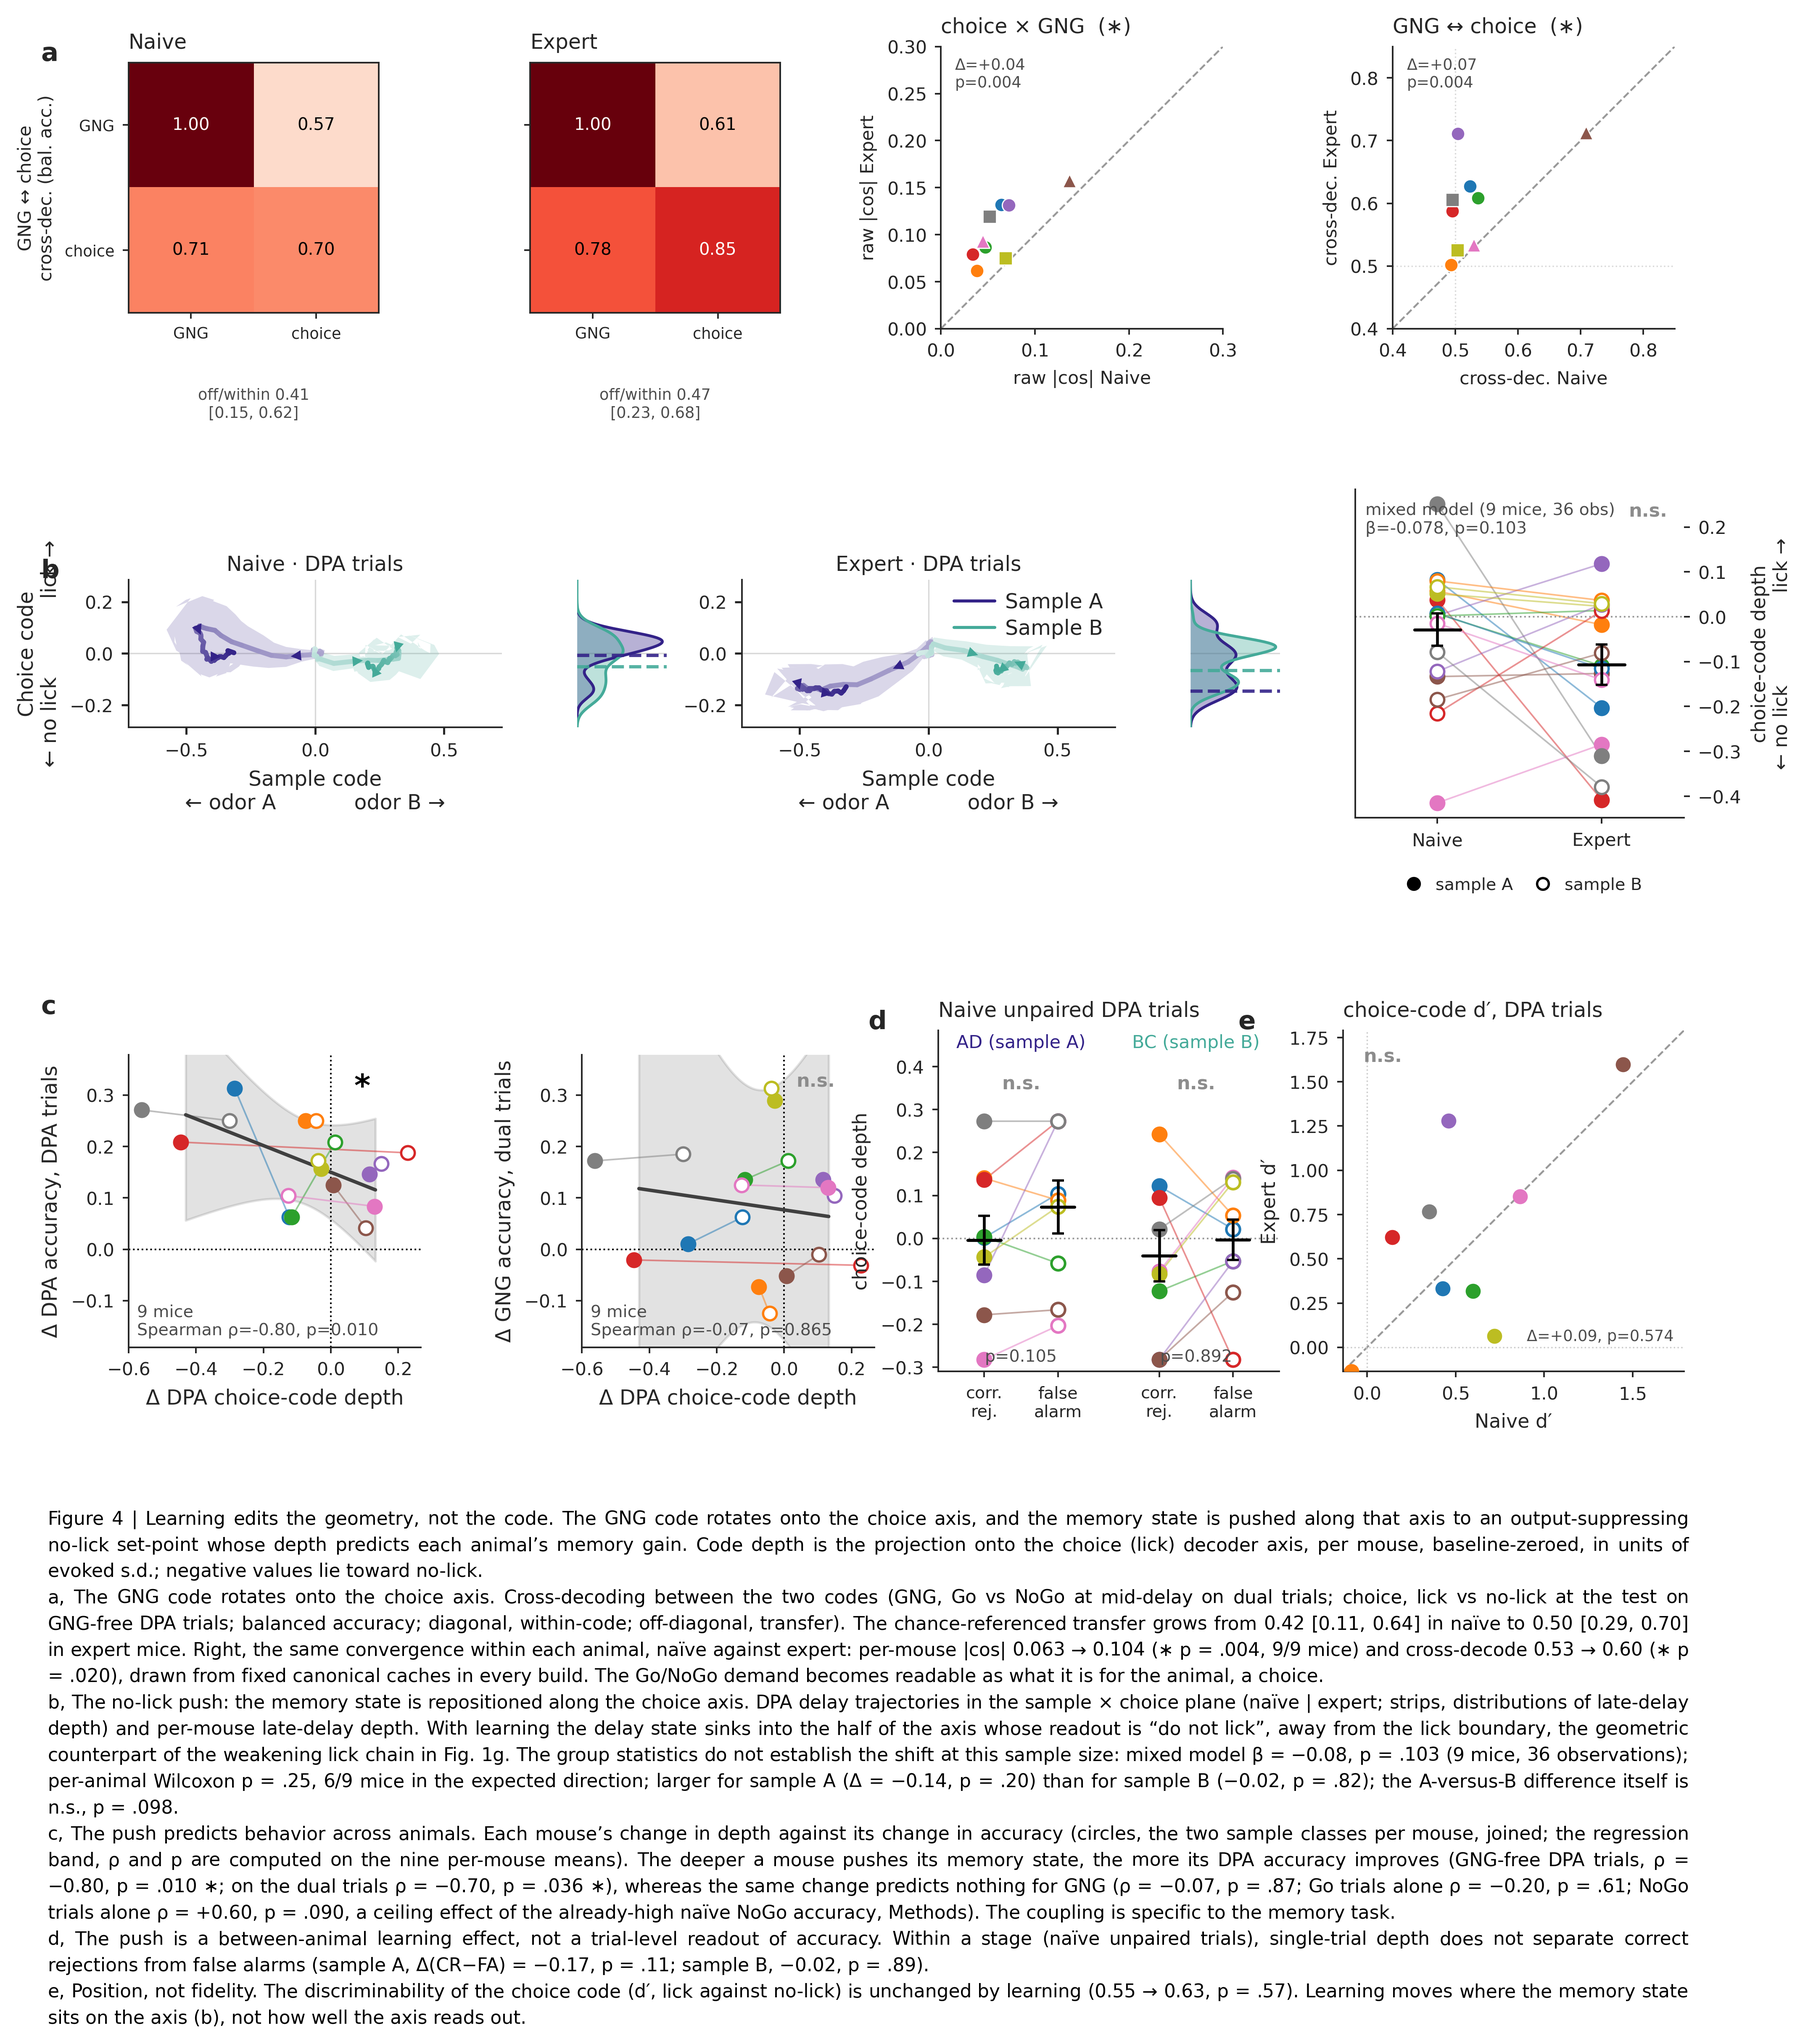
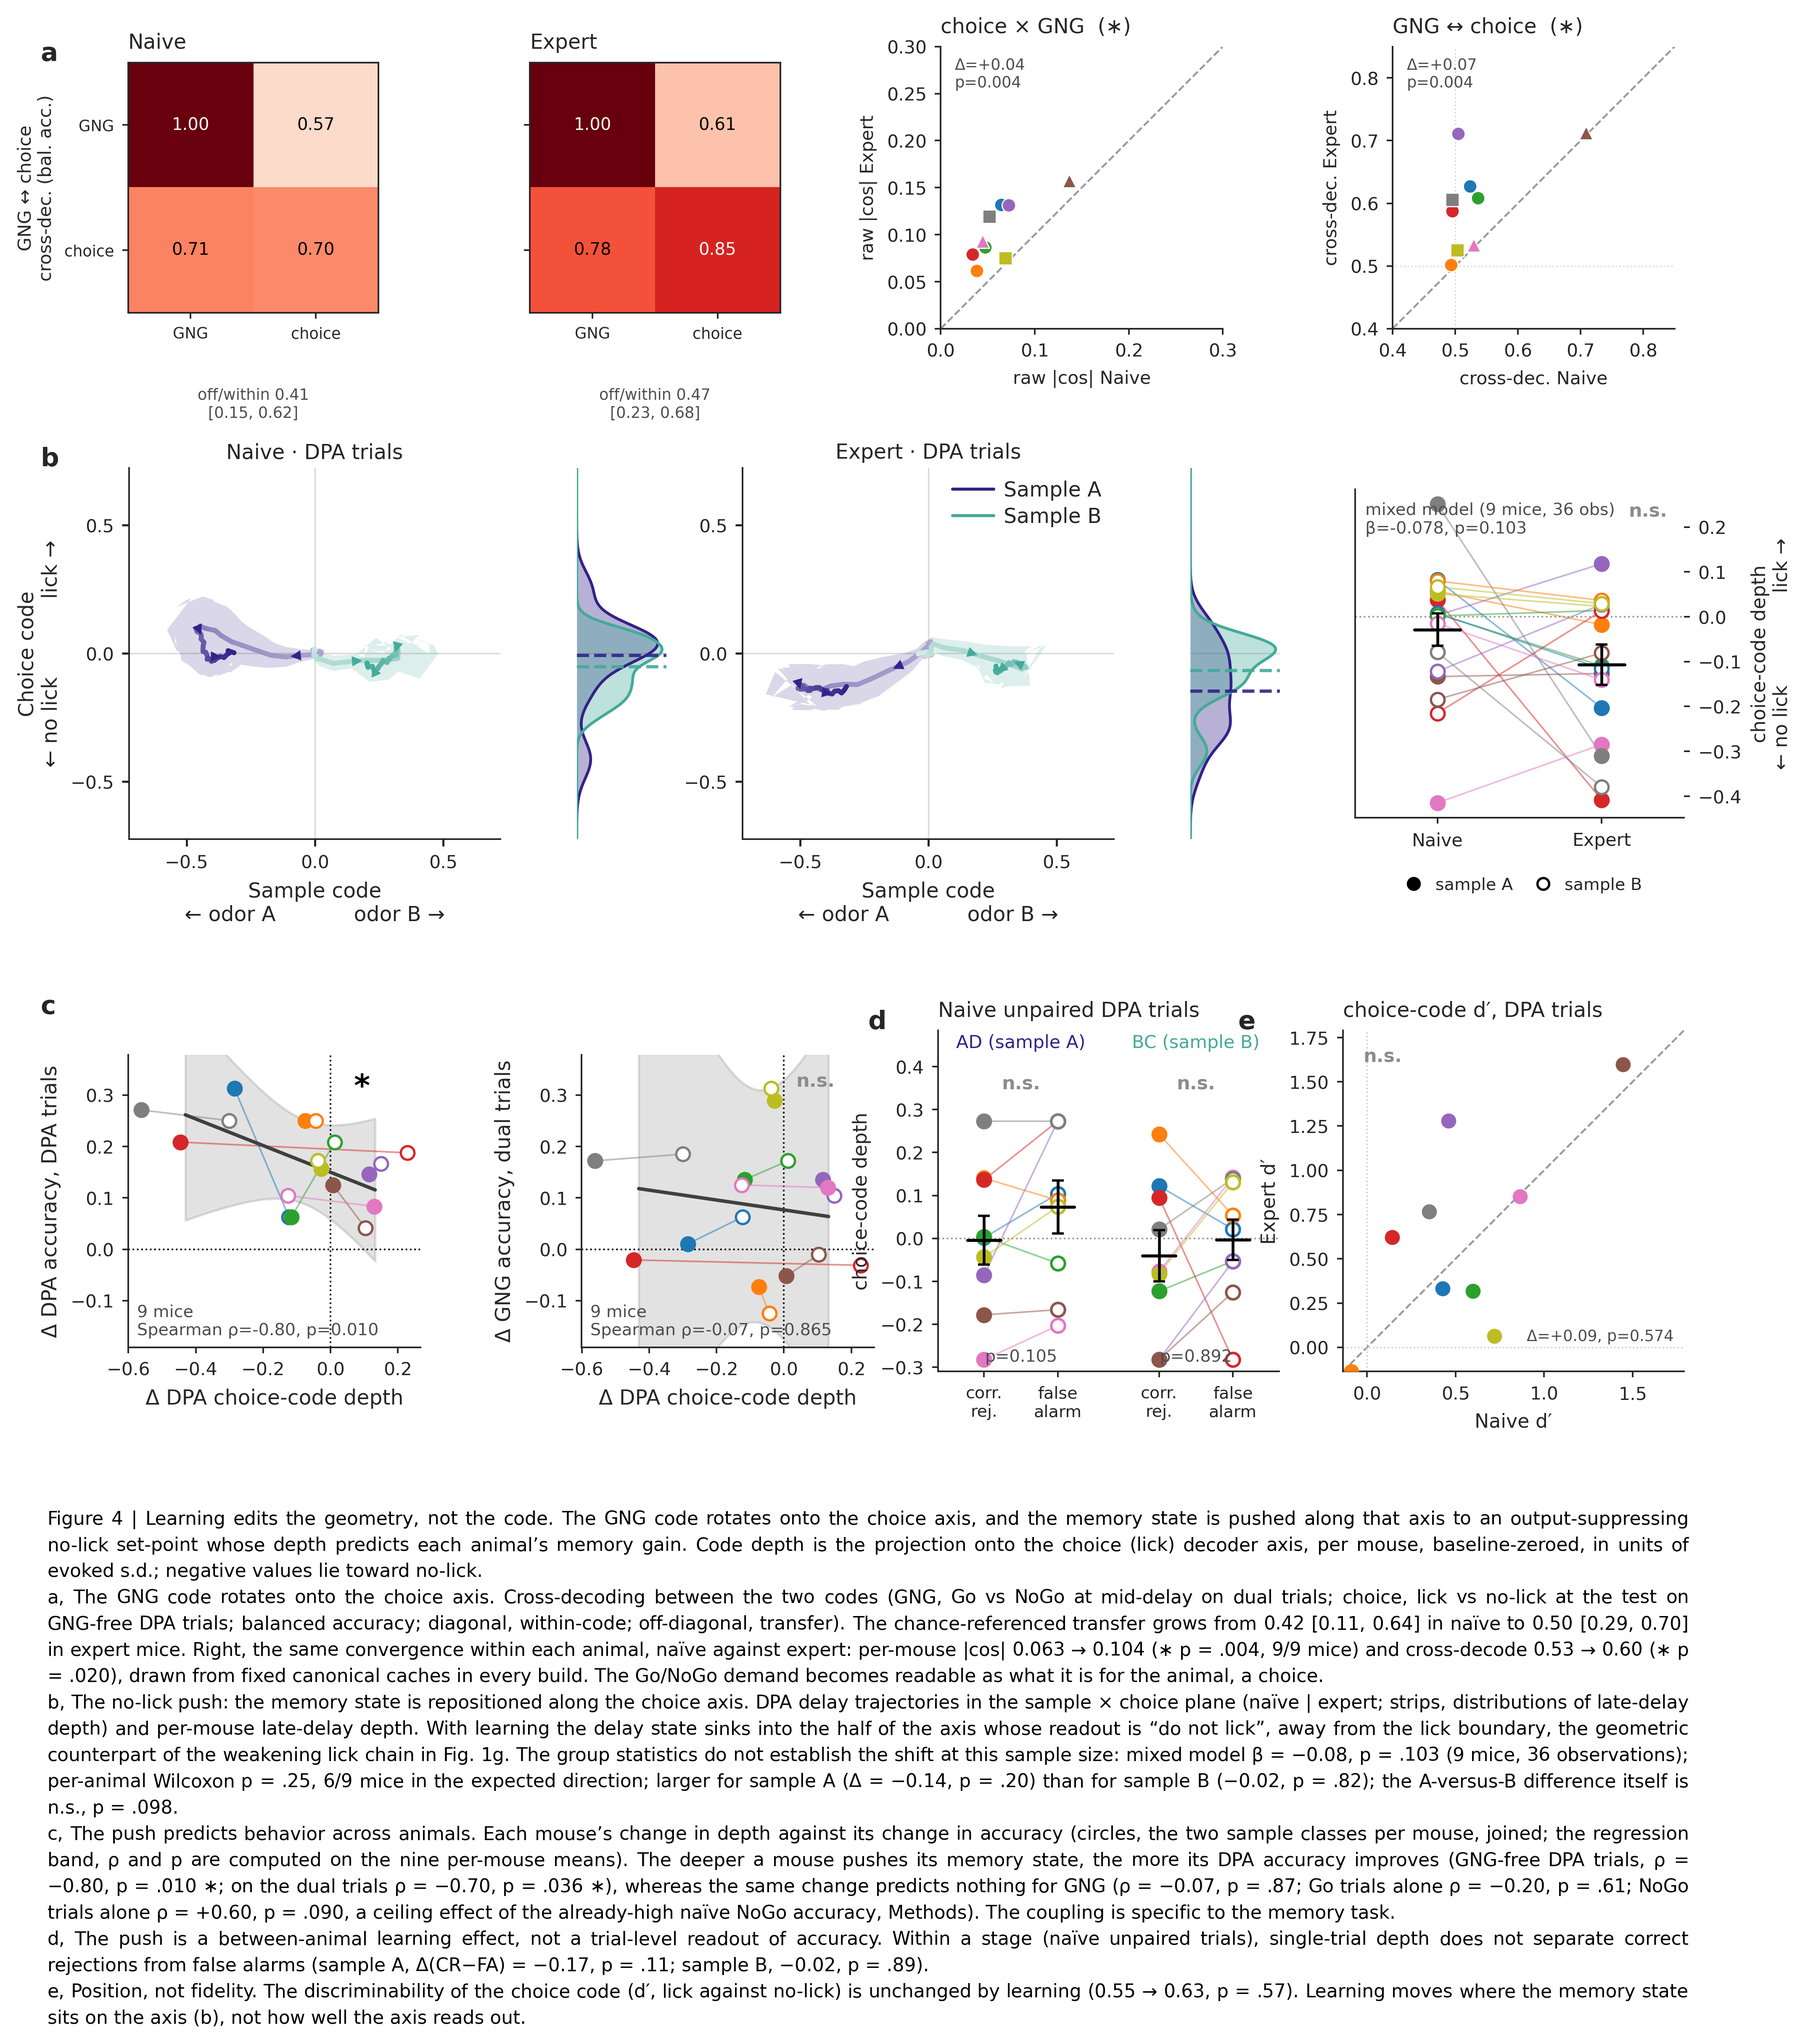
Fig 4 panel b: square again, via one symmetric range rather than a box aspect
The panel already sets an equal data aspect with an adjustable box, so it is
square only when the two axes span the same range. Under the old per-code
normalisation they happened to. On raw log-odds the sample swing is about two and
a half times the choice swing, which drew a wide, short box.

Fixed by giving both axes one symmetric range, the larger of the two.

Trap recorded in a comment: set_box_aspect(1) is the wrong tool here. With an
equal data aspect already set, matplotlib satisfies both constraints by shrinking
the x data limits instead of the box, collapsing them from plus or minus 0.72 to
plus or minus 0.29 and silently clipping the sample excursion off the panel. The
render looked correct; only printing the drawn limits after the canvas draw
showed it.

The KDE strips now align to the drawn trajectory box via its window extent rather
than its position rectangle, since an aspect is applied at draw time.

Share bundle, submission PDF and the figures artifact refreshed.

Claude-Session: https://claude.ai/code/session_01PzGzWMKHPqqyp4poHedntF

diff --git a/overlaps/fig_overlaps_main_native.py b/overlaps/fig_overlaps_main_native.py
@@ -139,7 +139,14 @@ if __name__ == '__main__':
     _kA = np.concatenate(_valsy_kde) if _valsy_kde else np.array([4.0])
     _rBx = float(np.concatenate(_valsx).max()) * 1.12 if _valsx else 4.0
     _rBy = float(np.concatenate(_valsy_traj).max()) * 1.28 if _valsy_traj else 4.0
-    xlimB, ylimB = (-_rBx, _rBx), (-_rBy, _rBy)
+    # SQUARE panel (Leon 2026-09-10, "I want it squared like before"): _draw_traj_B already sets
+    # set_aspect('equal', adjustable='box'), so the box is square only when the two RANGES match. Under the
+    # old per-code normalisation they happened to; on raw log-odds the sample swing (±0.72) is ~2.5x the
+    # choice swing (±0.29), which drew a wide, short box. One symmetric range fixes it. Do NOT reach for
+    # set_box_aspect(1) instead: with equal aspect already set, matplotlib satisfies both by SHRINKING the
+    # x data limits (to ±0.29 here), which silently clips the sample excursion off the panel.
+    _rB = max(_rBx, _rBy)
+    xlimB = ylimB = (-_rB, _rB)
     print(f'A traj limits: x=±{_rBx:.2f}  y=±{_rBy:.2f}  (kde tail dropped to taper inside; p90={np.percentile(_kA,90):.2f})')
     axB_traj, axB_hist = [], []
     ax0 = None
@@ -389,9 +396,11 @@ if __name__ == '__main__':
     # shrinks their box vertically at draw time. At identical y-limits the strips therefore rendered TALLER, so
     # their distributions ran past the trajectory's y axis. Draw once to apply the aspect, then match each strip's
     # box to its partner's active box (x position/width untouched).
-    fig.canvas.draw()
+    fig.canvas.draw()                     # box_aspect is applied at draw time, so read the DRAWN rectangle
+    #   (get_position() returns the pre-aspect one) or the KDE strips detach from the shrunken trajectory box.
     for _at, _ah in zip(axB_traj, axB_hist):
-        _pt, _ph = _at.get_position(), _ah.get_position()
+        _pt = _at.get_window_extent().transformed(fig.transFigure.inverted())   # drawn box, aspect applied
+        _ph = _ah.get_position()
         _ah.set_position([_ph.x0, _pt.y0, _ph.width, _pt.height])
 
     OUT = 'figures/overlaps/main/eqnorm' if EQNORM else 'figures/overlaps/main'
